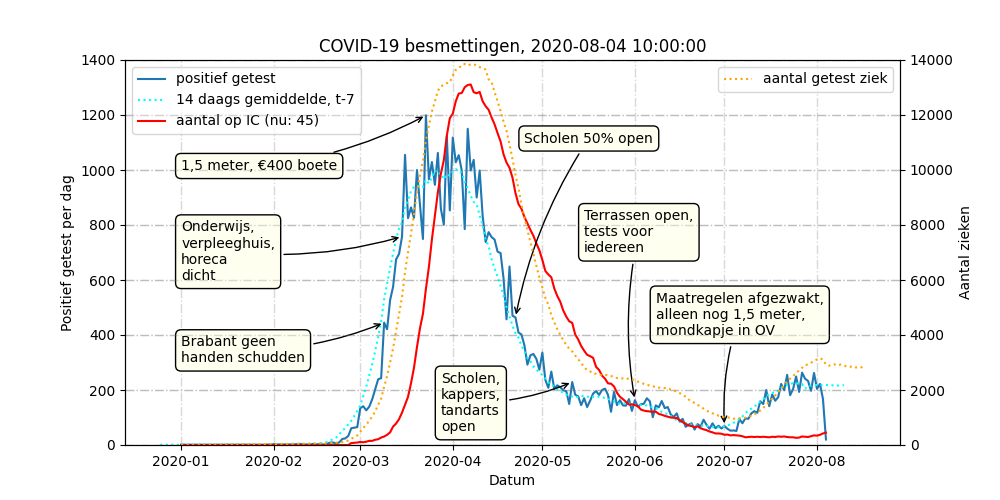
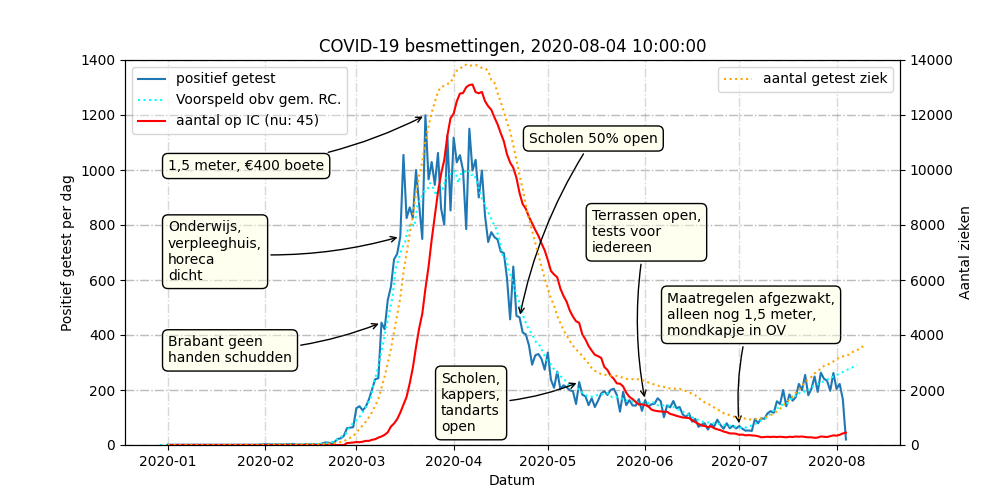
Ran getDailyExcelData

diff --git a/scripts/createGraph.py b/scripts/createGraph.py
@@ -25,7 +25,7 @@ def getDateRange(metenisweten):
         maxdatum = max(maxdatum, parser.parse(datum))
 
     date_range = [mindatum + datetime.timedelta(days=x)
-                  for x in range(0, (maxdatum-mindatum).days+14)]
+                  for x in range(0, (maxdatum-mindatum).days+7)]
     return date_range
 
 
@@ -64,6 +64,12 @@ positief_gemiddeld = {
     'avgsize': 14
 }
 
+positief_voorspeld = {
+    'x': [],
+    'y': [],
+    'avgsize': 5
+}
+
 ziek = {
     'x' : [],
     'y' : [],
@@ -90,6 +96,7 @@ date_range = getDateRange(metenisweten)
 for d in date_range:
     datum = d.strftime("%Y-%m-%d")
 
+    # --------------------------------- Normale grafieken
     if datum in metenisweten:
         positief['x'].append(parser.parse(datum))
         positief['y'].append(metenisweten[datum]['positief'])
@@ -97,6 +104,7 @@ for d in date_range:
         ic['x'].append(parser.parse(datum))
         ic['y'].append(metenisweten[datum]['nu_op_ic'] * ic['scale'])  # <-------------- Let op! Scaled!
 
+    # --------------------------------- Gemiddeld positief getest
     if datum in metenisweten:
         avg = mean(positief['y'][len(positief['y'])-11:])
     else:
@@ -104,18 +112,40 @@ for d in date_range:
     positief_gemiddeld['x'].append(parser.parse(datum) - datetime.timedelta(days=positief_gemiddeld['avgsize']/2))
     positief_gemiddeld['y'].append(avg)
 
+    # ---------------------- Voorspelling positief getst obv gemiddelde richtingscoefficient positief getest.
+    if datum in metenisweten and len(positief['y']) > 2 and parser.parse(datum) < (datetime.datetime.now() - datetime.timedelta(days=7)):
+        rc = positief['y'][-1]-positief['y'][-2]
+    elif len(positief_voorspeld['y']) > 2: 
+        rc = positief_voorspeld['y'][-1]-positief_voorspeld['y'][-2]
+    else :
+        rc = 0
+    
+    try:
+        rc_avg = rc_avg * (positief_voorspeld['avgsize'] - 1) / positief_voorspeld['avgsize'] + rc / positief_voorspeld['avgsize']
+    except NameError:
+        rc_avg = 0
+
+    try:
+        voorspeld_huidig = voorspeld_huidig + rc_avg
+    except NameError:
+        voorspeld_huidig = 0
+
+    positief_voorspeld['x'].append(parser.parse(datum) - datetime.timedelta(days=positief_voorspeld['avgsize']/2))
+    positief_voorspeld['y'].append(voorspeld_huidig)    
+
+    # --------------------------------- Positief getest, en nu ziek (beter na x dagen)
     beterdag = (parser.parse(datum) - datetime.timedelta(days=ziek['ziekteduur'])).strftime("%Y-%m-%d")
     
-    if datum in metenisweten:
+    if datum in metenisweten and parser.parse(datum) < (datetime.datetime.now() - datetime.timedelta(days=7)):
         ziekgeworden = metenisweten[datum]['positief']
     else :
-        ziekgeworden = avg
+        ziekgeworden = positief_voorspeld['y'][-1]
 
-    if beterdag in metenisweten:
+    if beterdag in metenisweten and parser.parse(beterdag) < (datetime.datetime.now() - datetime.timedelta(days=7)):
         betergeworden = metenisweten[beterdag]['positief']
     else:
         try:
-            betergeworden = positief_gemiddeld['y'][len(positief_gemiddeld['y']) - ziek['ziekteduur']]
+            betergeworden = positief_voorspeld['y'][len(positief_voorspeld['y']) - ziek['ziekteduur']]
         except IndexError:
             betergeworden = avg
     
@@ -129,8 +159,6 @@ for d in date_range:
 
     ziek['x'].append(parser.parse(datum))
     ziek['y'].append(nuziek)
-
-    
 
 
 def anotate(plt, metenisweten, datum, tekst, x, y):
@@ -169,10 +197,13 @@ anotate(ax1, metenisweten, "2020-07-01",
         'Maatregelen afgezwakt,\nalleen nog 1,5 meter,\nmondkapje in OV', "2020-06-08", 400)
 
 # Plot average per dag
-ax1.plot(positief_gemiddeld['x'], positief_gemiddeld['y'], color='cyan', linestyle=':',
-         label=str(positief_gemiddeld['avgsize'])+' daags gemiddelde, t-' +
-         str(int(positief_gemiddeld['avgsize']/2))
-         )
+# ax1.plot(positief_gemiddeld['x'], positief_gemiddeld['y'], color='cyan', linestyle=':',
+#          label=str(positief_gemiddeld['avgsize'])+' daags gemiddelde, t-' +
+#          str(int(positief_gemiddeld['avgsize']/2))
+#          )
+
+ax1.plot(positief_voorspeld['x'], positief_voorspeld['y'], color='cyan', linestyle=':',
+         label='Voorspeld obv gem. RC.')
 
 ax1.plot(ic['x'], ic['y'], color='red', label='aantal op IC (nu: '+str(ic['y'][-1])+')')
 
